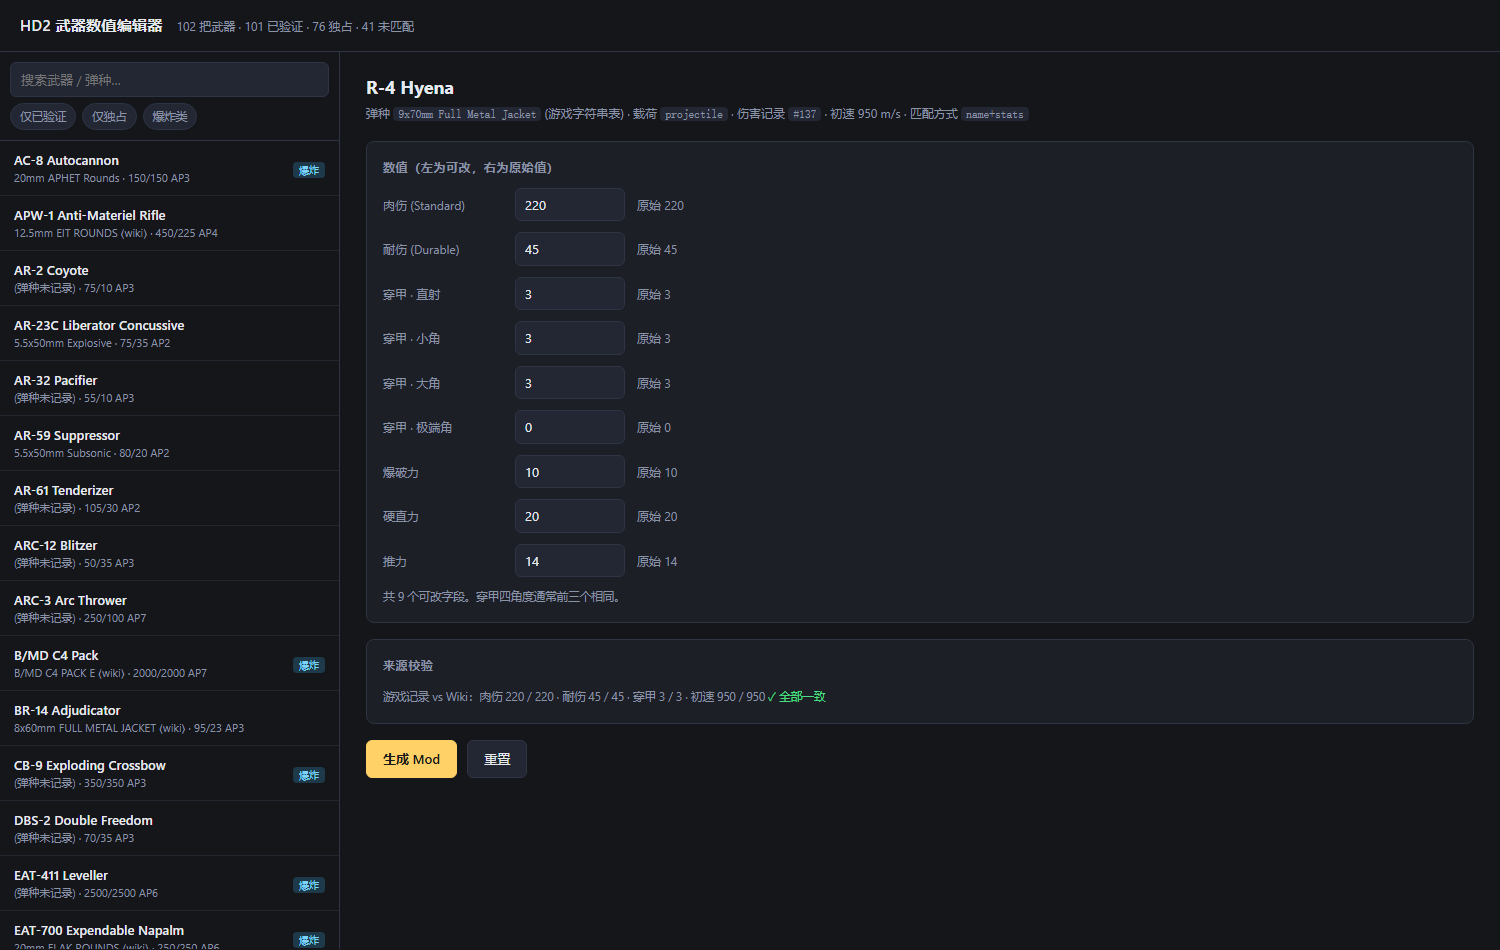
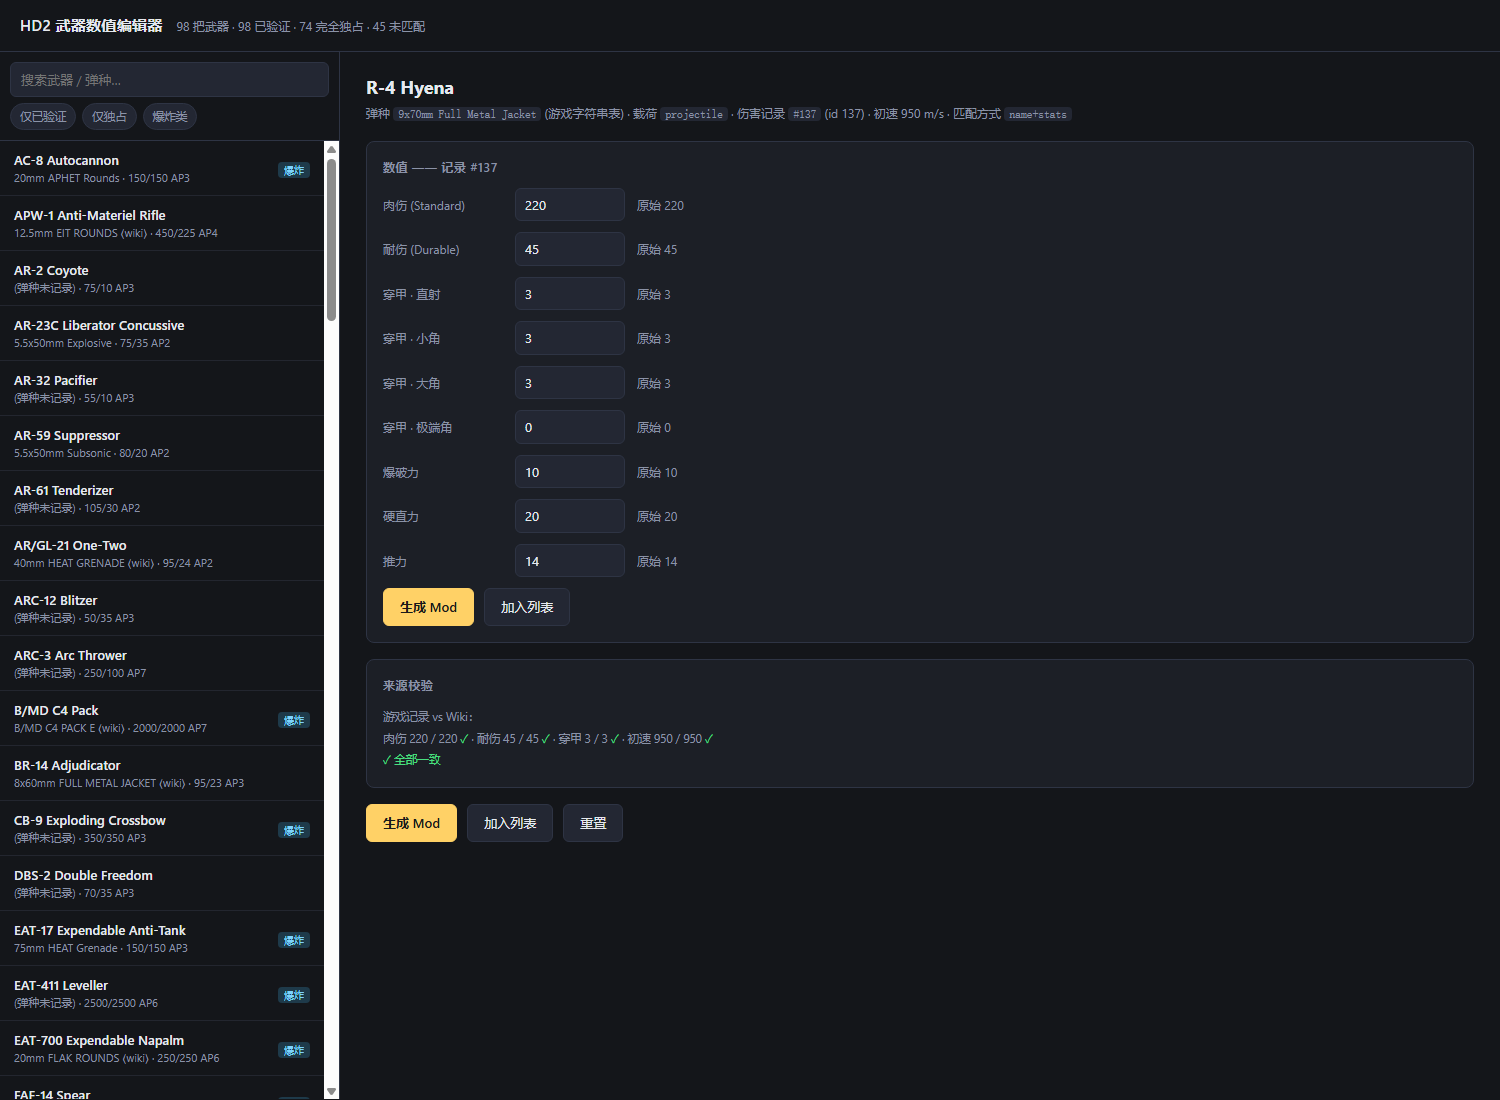
refresh the docs for the confirmation flow and the corrected counts
README said shared rows were unlocked with a checkbox, which is no longer how it
works, and both READMEs counted 28 offline suites. STATUS.md still described 102
weapons, 35 explosive payloads and 11 shared rows - the matcher fix left 98, 33
and 8. Screenshots were from before the panel split provenance per segment and
before the checkbox was replaced by the dialog.

Changed region(s): [[0.0, 0.0, 0.736, 1.0], [0.3987, 0.3053, 0.46, 0.5495], [0.4293, 0.1832, 0.46, 0.2747]]

diff --git a/README.md b/README.md
@@ -65,7 +65,7 @@ python gui/app.py              # 或用浏览器打开 http://127.0.0.1:8777
 
 **改不了的武器会被拦下。** 在列出某把武器之前，工具会把游戏表和 wiki 交叉核对 —— 肉伤、耐伤、穿甲和初速。任何一项对不上，说明其中一方已过时、行号可能不准，此时**禁止生成**。
 
-**有些武器共用同一条伤害记录。** 改一把会连带动到其他几把。界面会明确列出**具体哪些武器**受影响，以及共用的是**哪一段**（直击还是爆炸）。你仍然可以继续改（有个复选框），但这个改动**不限于一把武器**。
+**有些武器共用同一条伤害记录。** 改一把会连带动到其他几把。界面会明确列出**具体哪些武器**受影响，以及共用的是**哪一段**（直击还是爆炸）。点生成时会让你确认一次，确认后这个改动就**不限于一把武器**。
 
 **一把武器可能直击段共用、而爆炸段独占**，或者反过来。列表上的徽章（`直击共享` / `爆炸共享`）和详情面板都会**分段**显示，因为它们是两条独立的记录、各有各的共用方。
 
@@ -75,7 +75,7 @@ python gui/app.py              # 或用浏览器打开 http://127.0.0.1:8777
 gui/            界面（Flask + HTML，包在原生窗口里）
 tools/          数据解析、武器映射、Mod 生成
 mod_template/   打包进 Mod 的 Lua 源码
-tests/          28 个离线套件 + 无头浏览器 DOM 测试
+tests/          31 个离线套件 + 无头浏览器 DOM 测试
 data/           派生数据（见下）
 docs/           状态说明与截图
 ```

diff --git a/docs/STATUS.md b/docs/STATUS.md
@@ -13,7 +13,7 @@
 
 | 部分 | 状态 |
 |---|---|
-| 数据层（伤害/弹种/爆炸三表 + 102 武器映射） | ✅ 完成 |
+| 数据层（伤害/弹种/爆炸三表 + 98 武器映射） | ✅ 完成 |
 | GUI 展示与编辑 | ✅ 完成 |
 | **Mod 生成器** | ✅ 完成 |
 | **运行时写入层** | ✅ 完成（离线验证） |
@@ -81,11 +81,11 @@ mods/cowboybingus/wide_angle_stratagems   (hash 0x68FFEDFF4A775027)
 
 GL-21 的弹道记录是 `20/2`（撞击值），真正的 `400/400` 在**爆炸表**。按弹道表改会「看起来生效、实际几乎没变化」。
 
-**102 把武器里有 35 把是爆炸载荷。**
+**98 把武器里有 33 把是爆炸载荷。**
 
-**③ 有 11 条共享伤害行**
+**③ 有 8 条共享伤害行**
 
-例如 `damage[104]` 同时被 AR-23 Liberator、Liberator Carbine、M-105 Stalwart、StA-52 使用 —— 改它会影响 4 把枪。**生成器会拒绝这类武器**，并列出共用的其他武器。
+例如 `damage[104]` 同时被 AR-23 Liberator、Liberator Carbine、M-105 Stalwart、StA-52 使用 —— 改它会影响 4 把枪。**生成前会弹确认框列出共用的其他武器**，用户确认后才写入。
 
 R-4 是**双向独占**的：弹种 #245 只被 R-4 用，`damage[137]` 只被弹种 #245 引用。
 

diff --git a/README.en.md b/README.en.md
@@ -89,8 +89,8 @@ two is stale, the row number may be wrong, and generating is blocked.
 
 **Some weapons share a damage record.** Editing one changes all of them. The
 panel names exactly which weapons are affected and which half of the weapon
-(impact or explosion) they share. You can still proceed — there is a checkbox
-for it — but the change is not limited to one weapon.
+(impact or explosion) they share. Generating asks you to confirm once, and the
+change is not limited to one weapon.
 
 **A weapon can share its impact record and not its explosion record**, or the
 reverse. The list badges (`直击共享` / `爆炸共享`) and the detail panel show
@@ -103,7 +103,7 @@ owners.
 gui/            the interface (Flask + HTML, wrapped in a native window)
 tools/          data parsing, weapon mapping, mod generation
 mod_template/   the Lua that ships inside a generated mod
-tests/          28 offline suites + a headless-browser DOM test
+tests/          31 offline suites + a headless-browser DOM test
 data/           derived tables (see below)
 docs/           status notes and screenshots
 ```
